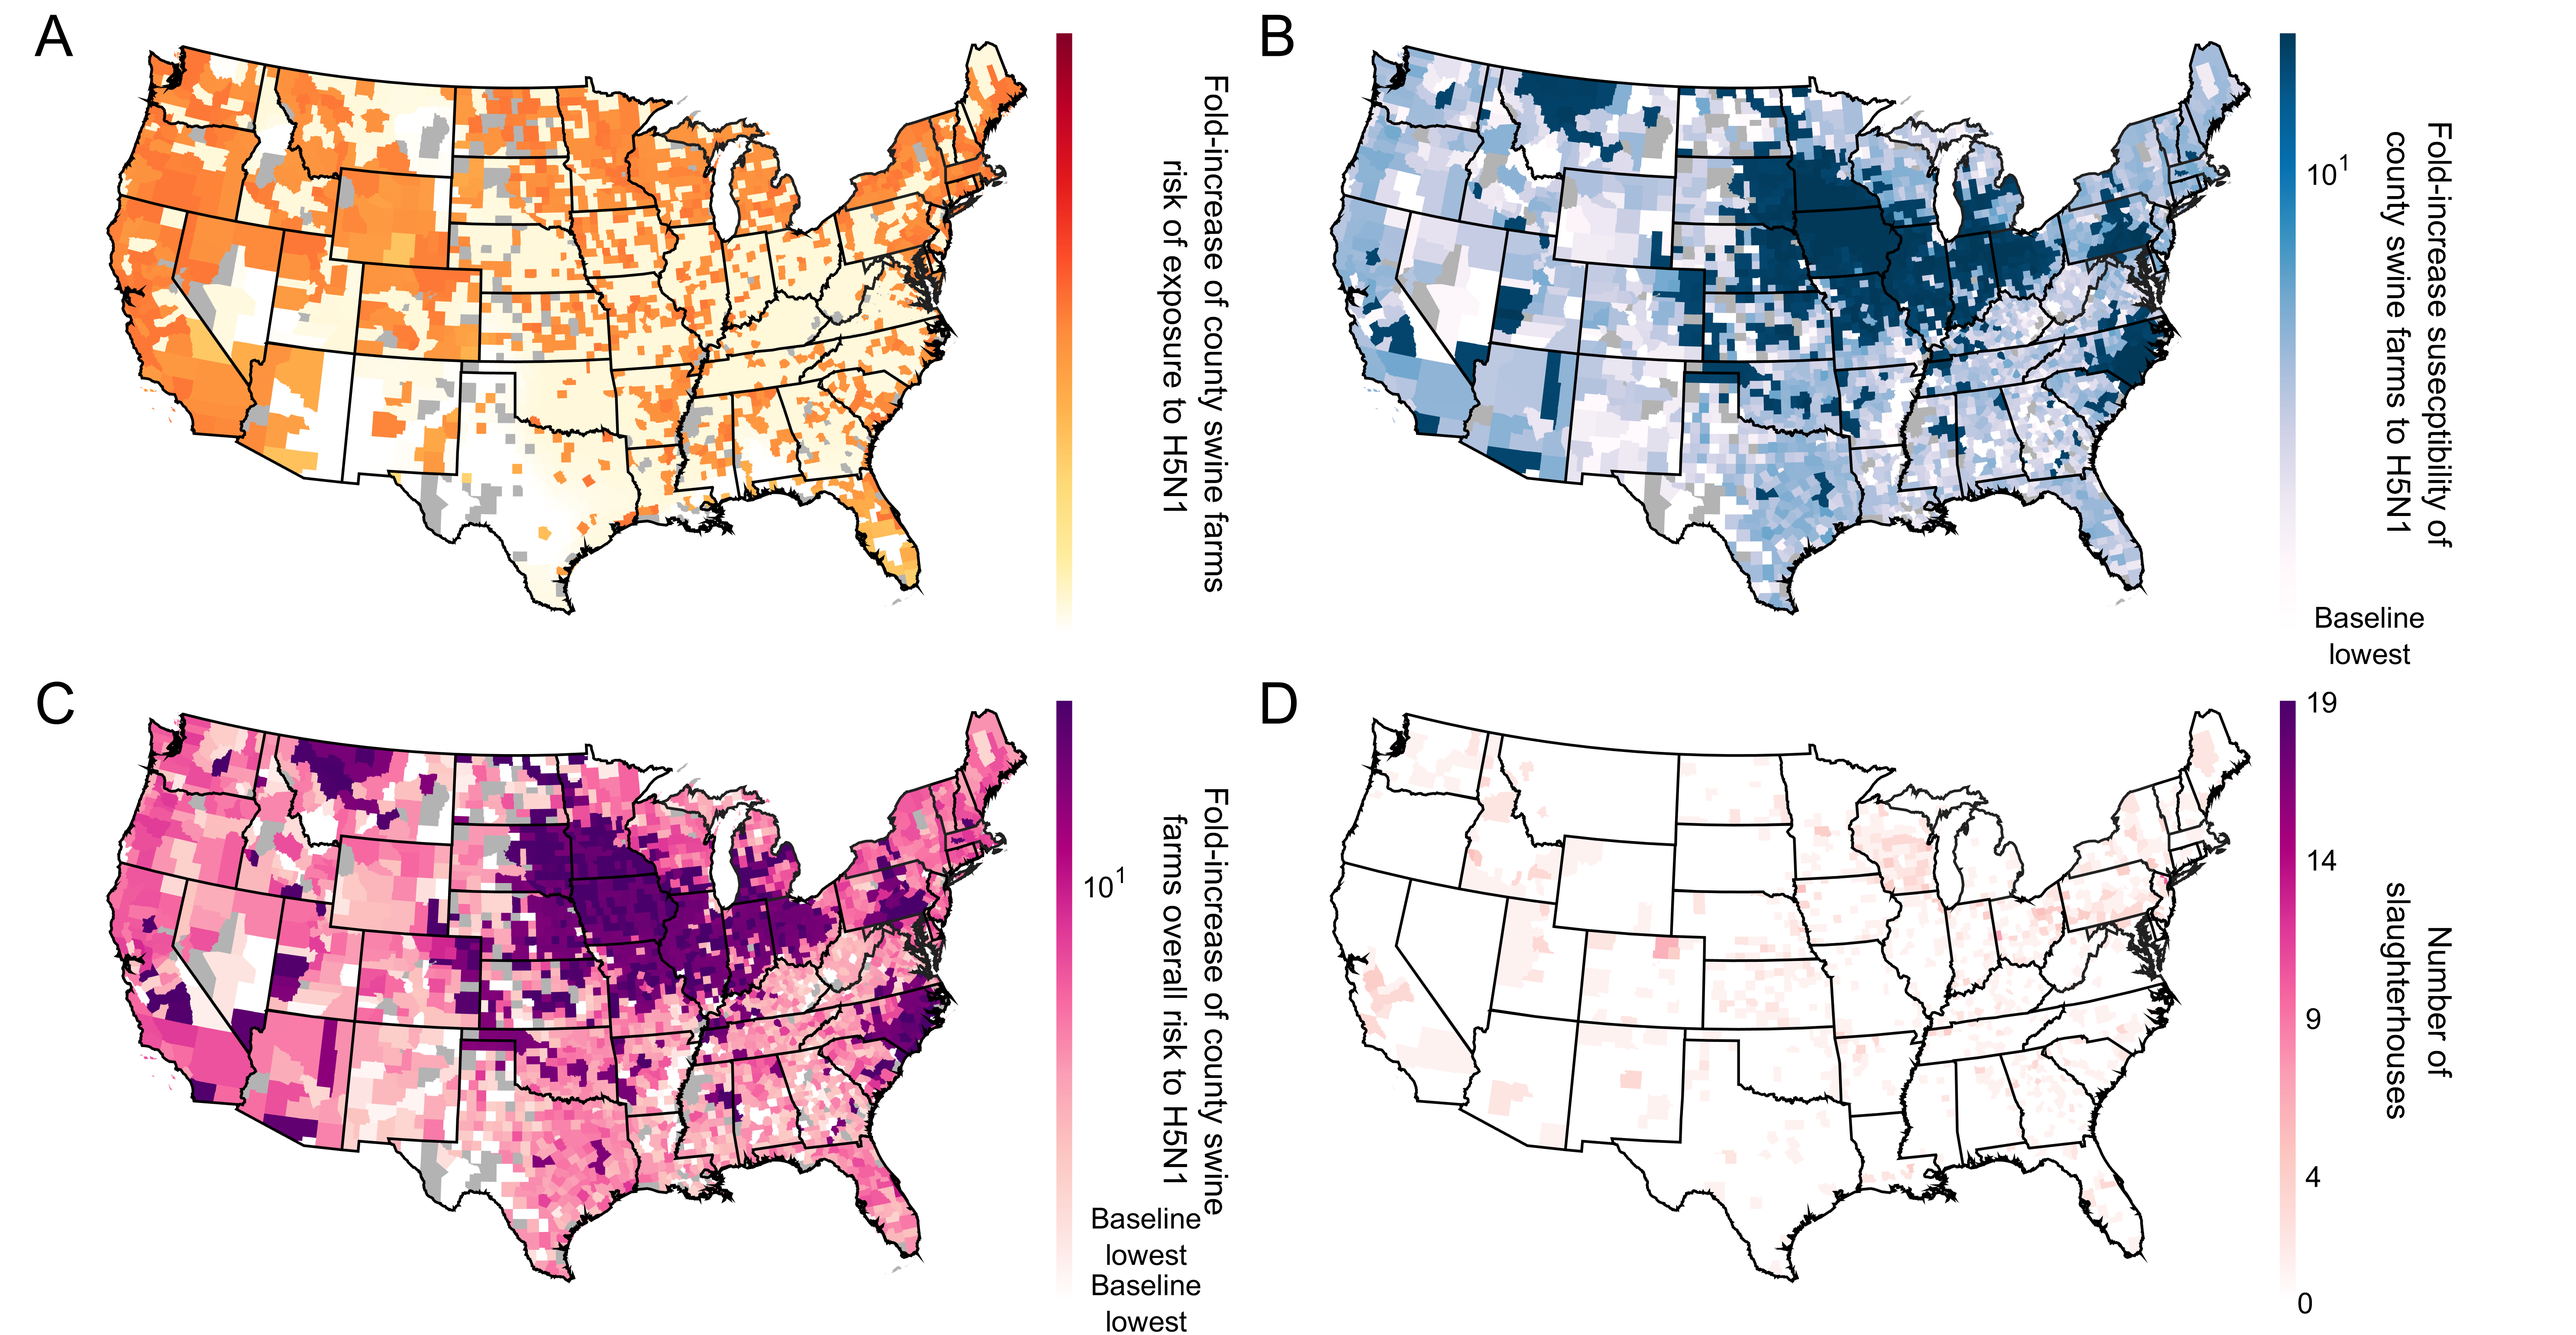
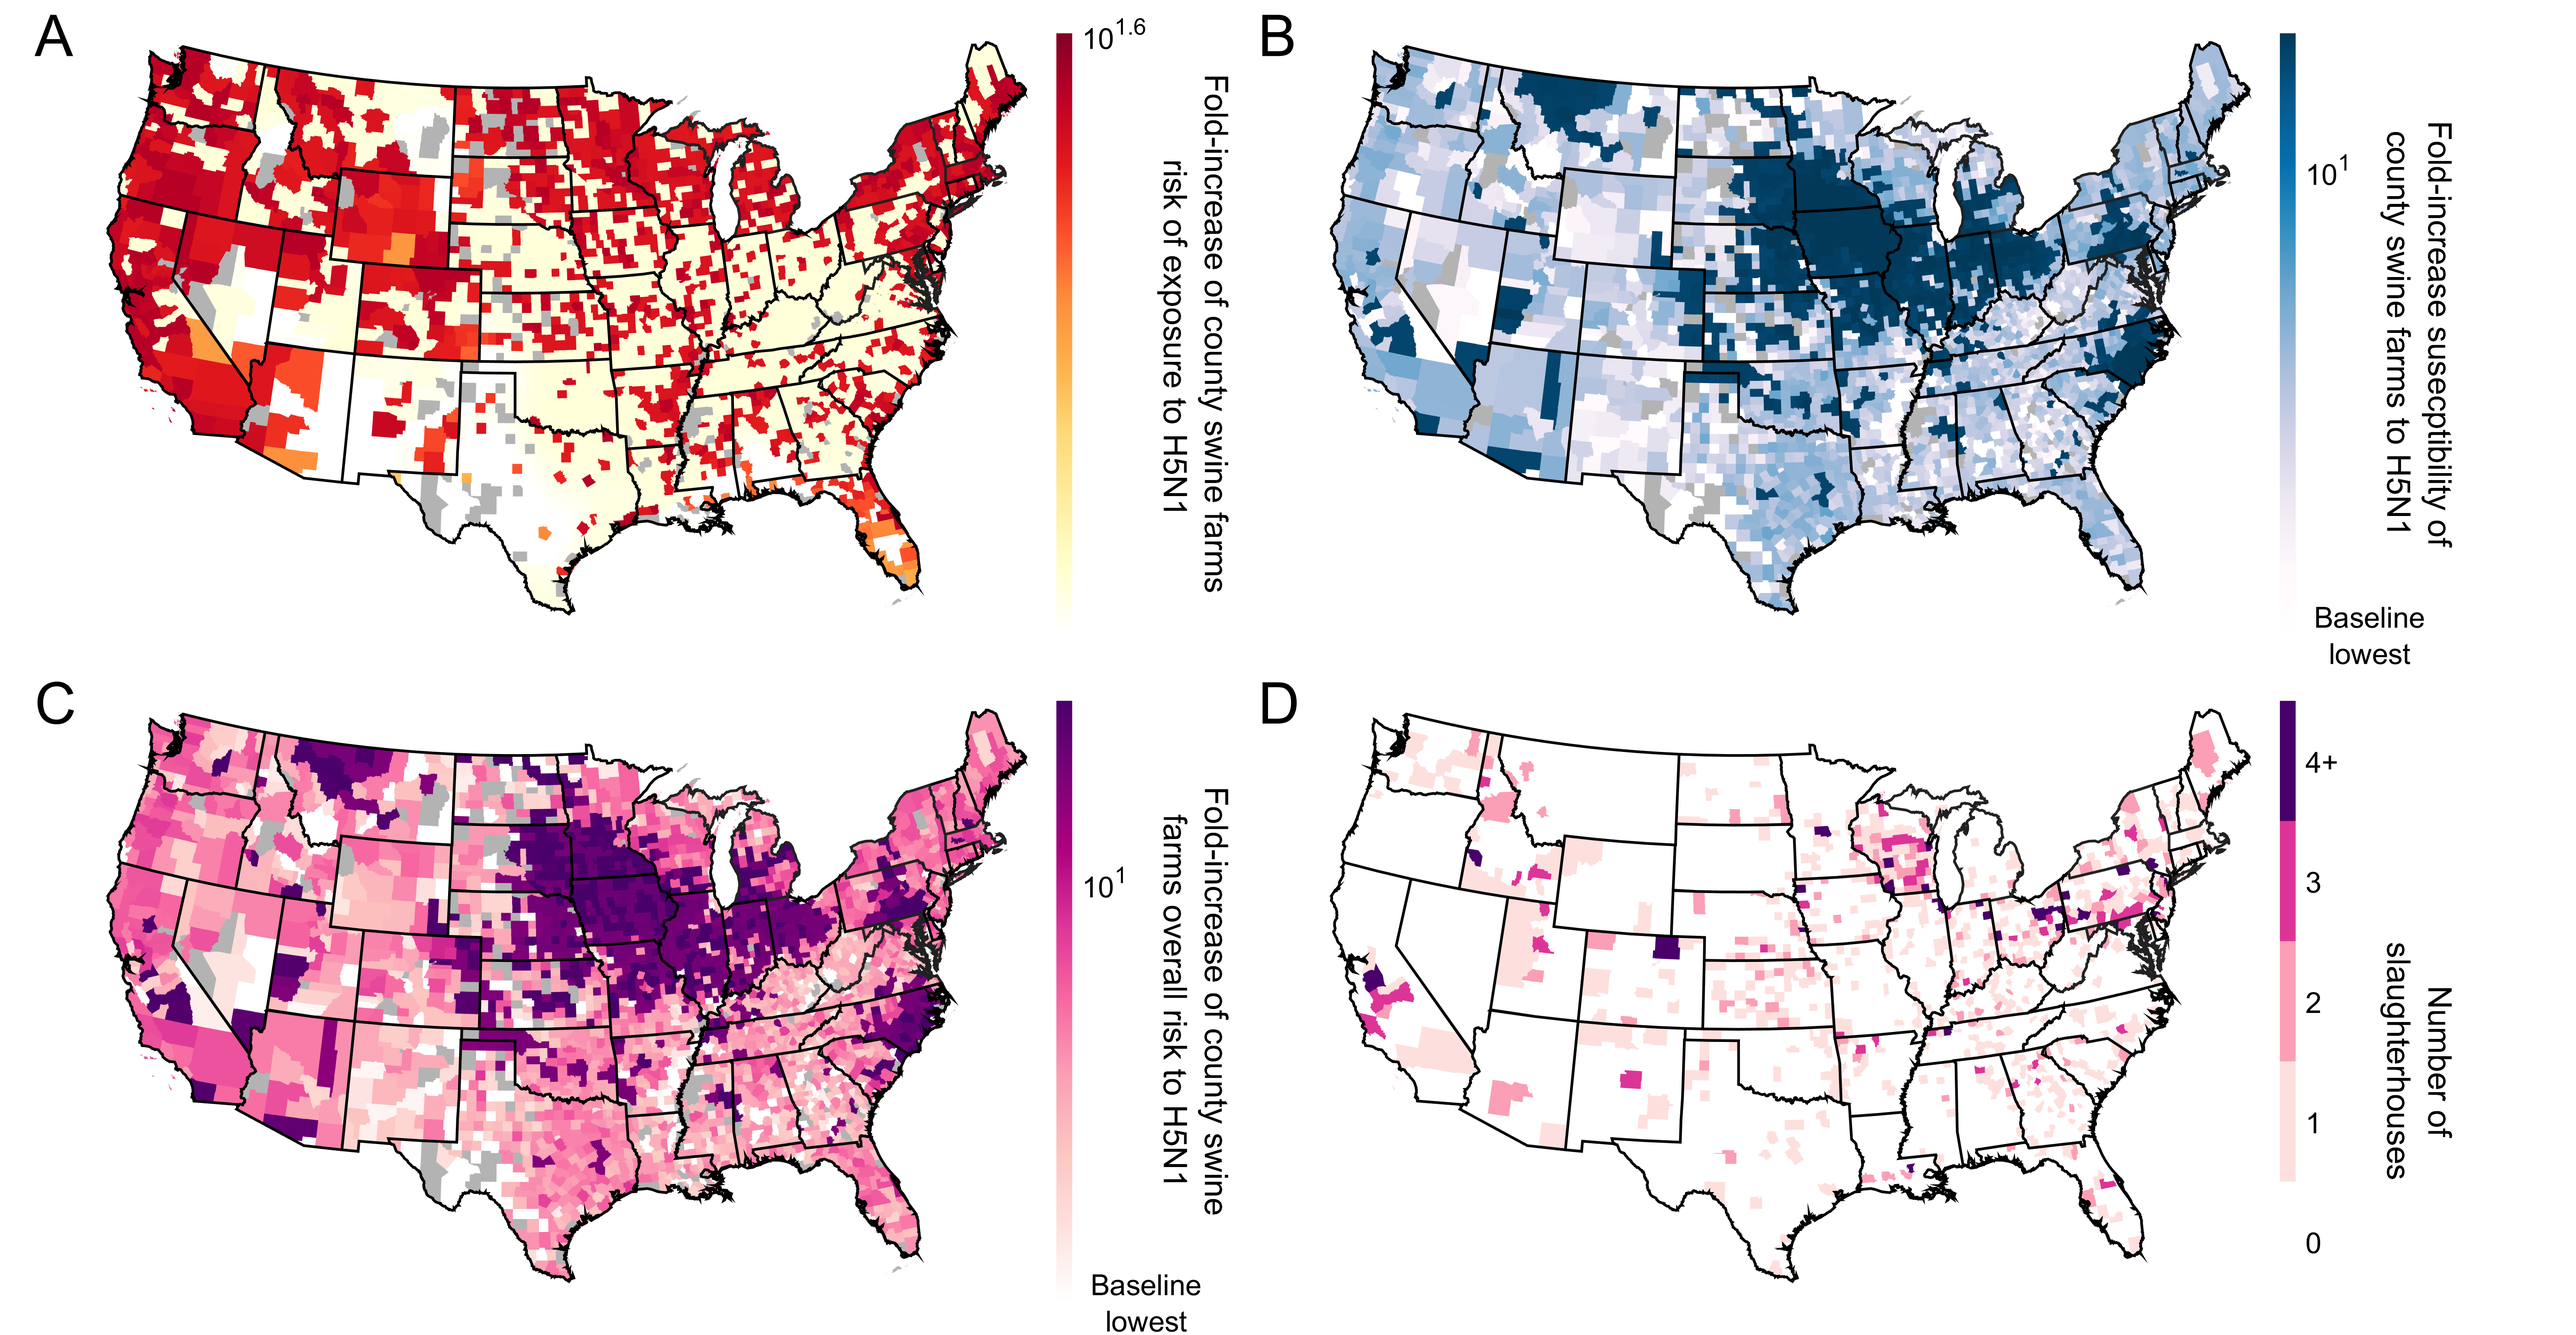
update

diff --git a/Figure_Exacerbate_Spillover.m b/Figure_Exacerbate_Spillover.m
@@ -79,7 +79,7 @@ for vv=1:4
             Title_Name={['Fold-increase of county swine farms'],' risk of exposure to H5N1'};
 
             C_Risk=[hex2rgb('#ffffff');
-                    hex2rgb('##ffffcc');
+                    hex2rgb('#ffffcc');
                     hex2rgb('#ffeda0');
                     hex2rgb('#fed976');
                     hex2rgb('#feb24c');
@@ -124,17 +124,18 @@ for vv=1:4
         case 4
             subplot('Position',[0.885,0.025,0.01,0.45]);  
             C_Risk=[hex2rgb('#ffffff');
-                    hex2rgb('##fff7f3');
+                    % hex2rgb('#fff7f3');
                     hex2rgb('#fde0dd');
-                    hex2rgb('#fcc5c0');
+                    % hex2rgb('#fcc5c0');
                     hex2rgb('#fa9fb5');
-                    hex2rgb('#f768a1');
+                    % hex2rgb('#f768a1');
                     hex2rgb('#dd3497');
-                    hex2rgb('#ae017e');
-                    hex2rgb('#7a0177');
+                    % hex2rgb('#ae017e');
+                    % hex2rgb('#7a0177');
                     hex2rgb('#49006a');];
             Title_Name={'Number of','slaughterhouses'};
             risk_measure=SH;
+            risk_measure(risk_measure>=4)=4;
     end
     if(vv<4)
         t_upper=risk_measure>prctile(risk_measure,95);
@@ -151,9 +152,16 @@ for vv=1:4
             c_indx=linspace(0,max(risk_measure),251);
             y_indx=[1:floor(max(risk_measure(risk_measure>0)))];
         else
-            x_risk=linspace(1,max(max(risk_measure),2),size(C_Risk,1));
-            c_indx=linspace(1,max(max(risk_measure),2),251);
-            y_indx=[2:ceil(10.*max(risk_measure))./10];
+            
+            if(max(ceil(10.*max(risk_measure))./10,2)==2)
+                y_indx=ceil(10.*max(risk_measure))./10;
+                x_risk=linspace(1,y_indx,size(C_Risk,1));
+                c_indx=linspace(1,y_indx,251);
+            else
+                y_indx=[2:ceil(10.*max(risk_measure))./10];
+                x_risk=linspace(1,max(max(risk_measure),2),size(C_Risk,1));
+                c_indx=linspace(1,max(max(risk_measure),2),251);
+            end
         end
 
         xlim([0 1]);
@@ -173,7 +181,7 @@ for vv=1:4
             if(min(y_indx)==2)
                 text(ymin,y_indx(yy),[num2str(y_indx(yy))],'Fontsize',16);
             else
-                text(ymin,y_indx(yy),['10^' num2str(y_indx(yy))],'Fontsize',16);
+                text(ymin,y_indx(yy),['10^{' num2str(y_indx(yy)) '}'],'Fontsize',16);
             end
         end
         text(ymin+4.5,[min(c_indx)+max(c_indx)]./2,Title_Name,'HorizontalAlignment','center','Fontsize',18,'Rotation',270);
@@ -191,20 +199,23 @@ for vv=1:4
             end
         end
     else
-        x_risk=linspace(0,max(max(risk_measure),2),size(C_Risk,1));
-        c_indx=linspace(0,max(max(risk_measure),2),251);
-        y_indx=flip([max(risk_measure):-5:2]);
+        x_risk=[0:4];
+        c_indx=[0:4];
+        y_indx=[0:4];
 
         xlim([0 1]);
-        ylim([min(c_indx) max(c_indx)]);    
+        ylim([0 max(c_indx)+1]);    
         ymin=1;
         dy=2/(1+sqrt(5));
         for ii=1:length(c_indx)
             patch([0 0 dy dy],c_indx(ii)+[1 0 0 1],interp1(x_risk,C_Risk,c_indx(ii)),'LineStyle','none');
         end
-        text(ymin,0,'0','Fontsize',16,'HorizontalAlignment','center');
         for yy=1:length(y_indx)
-           text(ymin,y_indx(yy),[num2str(y_indx(yy))],'Fontsize',16);
+            if(yy<length(y_indx))
+                text(ymin,y_indx(yy)+0.5,[num2str(y_indx(yy))],'Fontsize',16);
+            else
+                text(ymin,y_indx(yy)+0.5,[num2str(y_indx(yy)) '+'],'Fontsize',16);
+            end
         end
         text(ymin+4.5,[min(c_indx)+max(c_indx)]./2,Title_Name,'HorizontalAlignment','center','Fontsize',18,'Rotation',270);
         
